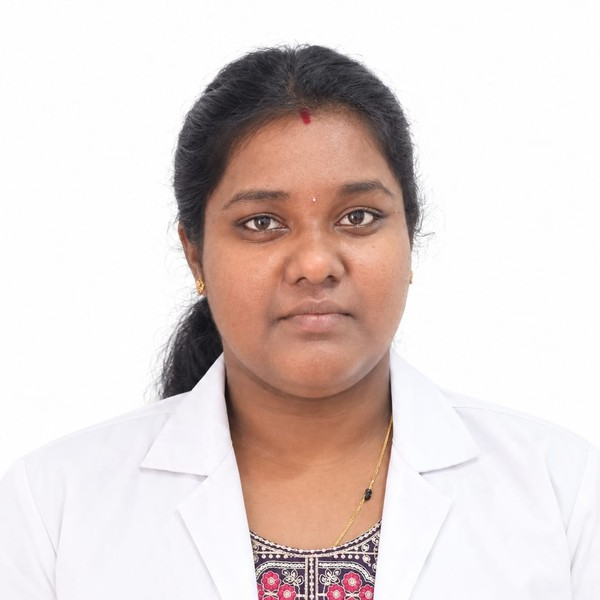
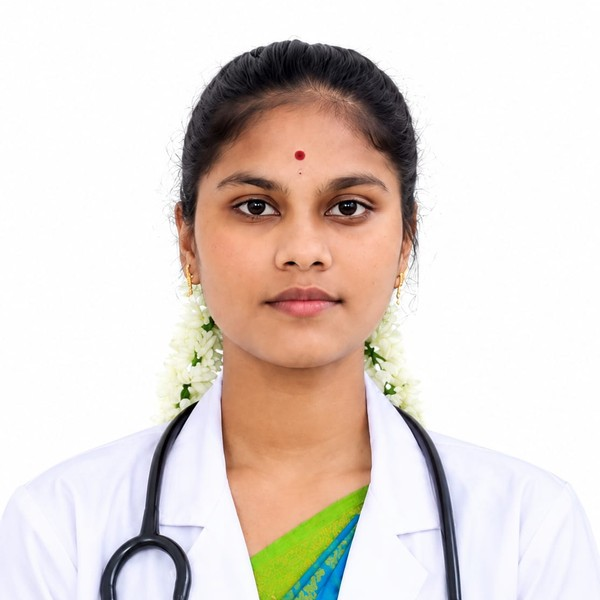
image update

Changed region(s): [[0.15, 0.06, 0.78, 1.0], [0.93, 0.93, 0.96, 0.96], [0.84, 0.99, 0.87, 1.0]]

diff --git a/assets/js/data.js b/assets/js/data.js
@@ -22,8 +22,8 @@ const BRANCHES = [
     phone:"+91 95003 22006",
     map:"https://www.google.com/maps?q=West+Tambaram+Mudichur+Road+Chennai+600045&output=embed",
     programmes:"All Certificate, Diploma, Advanced Diploma, Skill Development, B.Voc.* & M.Voc.* programmes" ,
-    incharge:{ name:"Ms. Charumathi P", designation:"Nursing Tutor", qualification:"B.Sc. (Nursing)",
-               phone:"+91 82202 88985", email:"", photo:"chennai.jpg" }},
+    incharge:{ name:"Ms. Sharumathi", designation:"Chennai Head", qualification:"",
+               phone:"+91 82202 88985", email:"sharumathi@bglrgm.com", photo:"chennai.jpg" }},
 
   { name:"Bengaluru — Registered Office", state:"Karnataka", type:"Registered Office",
     unit:"BGLRGM Institute of Vocational Education & Training",
@@ -32,7 +32,7 @@ const BRANCHES = [
     map:"https://www.google.com/maps?q=Padmanabhanagar+Bengaluru+560070&output=embed",
     programmes:"Administration, partner coordination, examinations and certification" ,
     incharge:{ name:"Mr. Manoj", designation:"Centre Coordinator", qualification:"",
-               phone:"+91 73380 17339", email:"", photo:"bengaluru.jpg" }},
+               phone:"+91 73380 17339", email:"manoj@bglrgm.com", photo:"bengaluru.jpg" }},
 
   { name:"Chengalpattu Branch", state:"Tamil Nadu", type:"Branch / Training Centre",
     unit:"Dr. RG Academy",
@@ -41,7 +41,7 @@ const BRANCHES = [
     map:"https://www.google.com/maps?q=Anna+Nagar+Chengalpattu+603001&output=embed",
     programmes:"Healthcare, paramedical, hospitality, IT and skill development programmes" ,
     incharge:{ name:"Ms. Sowmiya", designation:"Centre Coordinator", qualification:"",
-               phone:"+91 90030 68930", email:"", photo:"chengalpattu.jpg" }},
+               phone:"+91 90030 68930", email:"sowmiya@bglrgm.com", photo:"chengalpattu.jpg" }},
 
   { name:"Cheyyar Branch", state:"Tamil Nadu", type:"Branch / Training Centre",
     unit:"Dr. RG Academy",
@@ -50,7 +50,7 @@ const BRANCHES = [
     map:"https://www.google.com/maps?q=Mandi+Street+Cheyyar+604407&output=embed",
     programmes:"Certificate, diploma and short-term vocational programmes" ,
     incharge:{ name:"Mrs. Thilagavathi", designation:"Centre Coordinator", qualification:"",
-               phone:"+91 95001 46585", email:"", photo:"cheyyar.jpg" }},
+               phone:"+91 95001 46585", email:"thilagavathi@bglrgm.com", photo:"cheyyar.jpg" }},
 
   { name:"Villupuram Branch", state:"Tamil Nadu", type:"Branch / Training Centre",
     unit:"Dr. RG Academy",
@@ -59,7 +59,7 @@ const BRANCHES = [
     map:"https://www.google.com/maps?q=Raja+Rajeshwari+Nagar+Villupuram+605602&output=embed",
     programmes:"Healthcare, hospital administration, retail and computer applications" ,
     incharge:{ name:"Mr. Pushparaj", designation:"Centre Coordinator", qualification:"",
-               phone:"+91 90035 59761", email:"", photo:"villupuram.jpg" }},
+               phone:"+91 90035 59761", email:"pushparaj@bglrgm.com", photo:"villupuram.jpg" }},
 
   { name:"Tindivanam Branch", state:"Tamil Nadu", type:"Branch / Training Centre",
     unit:"Dr. RG Academy",
@@ -68,7 +68,7 @@ const BRANCHES = [
     map:"https://www.google.com/maps?q=Perumal+Kovil+Street+Tindivanam+604001&output=embed",
     programmes:"Certificate, diploma, skill development and Earn While You Learn programmes" ,
     incharge:{ name:"Mrs. Shobana", designation:"Centre Coordinator", qualification:"",
-               phone:"+91 73975 06070", email:"", photo:"tindivanam.jpg" }}
+               phone:"+91 73975 06070", email:"shobana@bglrgm.com", photo:"tindivanam.jpg" }}
 ];
 
 /* ---------- Programme categories ---------- */
@@ -623,4 +623,79 @@ const PARTNERS = [
      scope:"Internship, OJT and Earn While You Learn — Healthcare",
      since:"2026", note:"" }
   */
+];
+
+/* ==========================================================================
+   OUR TEAM  —  pages/our-team.html
+   --------------------------------------------------------------------------
+   One entry per staff member, shown in the order listed here.
+       name           printed as-is, e.g. "Ms. Charumathi P"
+       designation    their role, e.g. "Nursing Tutor"
+       qualification  e.g. "B.Sc. (Nursing)"
+       branch         optional — the centre they are based at, e.g.
+                      "Villupuram Branch". Shown as a small line on the card.
+       email          optional — shown as a clickable link on the card.
+                      House style is firstname@bglrgm.com.
+       photo          a file in assets/img/staff/  (square, 600x600 or larger).
+                      Leave "" and the card shows the neutral placeholder.
+   A slot with an empty name shows a "To be updated" card, so the page keeps
+   its full layout while you fill the details in.
+   TO ADD SOMEONE     copy a block and put it where they should appear.
+   TO REMOVE SOMEONE  delete their block.
+   ========================================================================== */
+
+const STAFF = [
+  /* Leadership and head office — the same people as pages/leadership.html.
+     Keep the two in step if a role changes. */
+  { name:"Prof. (Dr.) Govindh Ramasamy", designation:"Founder cum Foreign Affairs", qualification:"",
+    branch:"Institution", email:"govindh@bglrgm.com", photo:"founder.jpg" },
+  { name:"Mr. Nareen Ramasamy G", designation:"Chief Executive Officer", qualification:"",
+    branch:"Institution", email:"nareen@bglrgm.com", photo:"ceo.jpg" },
+  { name:"Dr. Latha Govindh", designation:"Director", qualification:"",
+    branch:"Institution", email:"latha@bglrgm.com", photo:"director.jpg" },
+  { name:"Mr. Venkatesan", designation:"Chief Administrative Officer", qualification:"",
+    branch:"Chennai Head Office", email:"venkatesan@bglrgm.com", photo:"admin.jpg" },
+  { name:"Mr. Vignesh E", designation:"Admissions Coordinator", qualification:"",
+    branch:"Chennai Head Office", email:"vignesh@bglrgm.com", photo:"admissions.jpg" },
+  { name:"Mr. Rakshith", designation:"Examination Controller", qualification:"",
+    branch:"Chennai Head Office", email:"rakshith@bglrgm.com", photo:"exam.jpg" },
+
+  { name:"Mrs. Bhuvaneswari A", designation:"Assistant Professor", qualification:"",
+    branch:"Villupuram Branch", email:"bhuvaneswari@bglrgm.com", photo:"bhuvaneswari-a.jpg" },
+  { name:"Ms. Sharumathi", designation:"Chennai Head", qualification:"",
+    branch:"Chennai Head Office", email:"sharumathi@bglrgm.com", photo:"chennai.jpg" },
+  { name:"Ms. Karthika S", designation:"Assistant Professor", qualification:"B.Sc. (Nursing)",
+    branch:"Chengalpattu Branch", email:"karthika@bglrgm.com", photo:"karthika-s.jpg" },
+  { name:"Ms. Fathima S", designation:"Assistant Professor", qualification:"B.Sc. (Nursing), MBA, CPC",
+    branch:"Chennai Branch", email:"fathima@bglrgm.com", photo:"fathima-s.jpg" },
+
+  /* Centre coordinators — the same people as the in-charge panels on
+     pages/branches.html. Keep the two in step if a coordinator changes. */
+  { name:"Mr. Manoj", designation:"Centre Coordinator", qualification:"",
+    branch:"Bengaluru — Registered Office", email:"manoj@bglrgm.com", photo:"bengaluru.jpg" },
+  { name:"Ms. Sowmiya", designation:"Centre Coordinator", qualification:"",
+    branch:"Chengalpattu Branch", email:"sowmiya@bglrgm.com", photo:"chengalpattu.jpg" },
+  { name:"Mrs. Thilagavathi", designation:"Centre Coordinator", qualification:"",
+    branch:"Cheyyar Branch", email:"thilagavathi@bglrgm.com", photo:"cheyyar.jpg" },
+  { name:"Mr. Pushparaj", designation:"Centre Coordinator", qualification:"",
+    branch:"Villupuram Branch", email:"pushparaj@bglrgm.com", photo:"villupuram.jpg" },
+  { name:"Mrs. Shobana", designation:"Centre Coordinator", qualification:"",
+    branch:"Tindivanam Branch", email:"shobana@bglrgm.com", photo:"tindivanam.jpg" },
+  { name:"Ms. Shruthi R", designation:"Assistant Professor", qualification:"",
+    branch:"Bengaluru — Registered Office", email:"shruthi@bglrgm.com", photo:"shruthi-r.jpg" },
+  { name:"Ms. Anitha R", designation:"Assistant Professor", qualification:"",
+    branch:"Bengaluru — Registered Office", email:"anitha@bglrgm.com", photo:"anitha-r.jpg" },
+  { name:"Ms. Keerthana R", designation:"Assistant Professor", qualification:"",
+    branch:"Bengaluru — Registered Office", email:"keerthana@bglrgm.com", photo:"keerthana-r.jpg" },
+  { name:"Mrs. S. Savithiri", designation:"Assistant Professor", qualification:"D.T.Ed., B.A., M.Ed. (English)",
+    branch:"Cheyyar Branch", email:"savithiri@bglrgm.com", photo:"savithiri-s.jpg" },
+  { name:"Mrs. S. Kalaiselvi", designation:"Assistant Professor", qualification:"B.Sc., B.Ed. (Mathematics)",
+    branch:"Cheyyar Branch", email:"kalaiselvi@bglrgm.com", photo:"kalaiselvi-s.jpg" },
+  { name:"Ms. Vennila", designation:"Assistant Professor", qualification:"",
+    branch:"Tindivanam Branch", email:"vennila@bglrgm.com", photo:"vennila.jpg" },
+  { name:"Mrs. G. Kavitha", designation:"Assistant Professor", qualification:"B.A., B.Ed.",
+    branch:"Villupuram Branch", email:"kavitha@bglrgm.com", photo:"kavitha-g.jpg" },
+  { name:"Mr. Naveen B", designation:"Education Counsellor", qualification:"BBA",
+    branch:"Villupuram Branch", email:"naveen@bglrgm.com", photo:"naveen-b.jpg" },
+  { name:"", designation:"Assistant Professor", qualification:"", branch:"", email:"", photo:"" }
 ];

diff --git a/pages/our-team.html b/pages/our-team.html
@@ -1,0 +1,77 @@
+<!DOCTYPE html>
+<html lang="en">
+<head>
+<meta charset="utf-8">
+<meta name="viewport" content="width=device-width,initial-scale=1">
+<title>Our Team | Faculty, Trainers &amp; Administration | BGLRGM</title>
+<meta name="description" content="The faculty, trainers, coordinators and administrative staff of BGLRGM Institute of Vocational Education &amp; Training.">
+<link rel="icon" href="../assets/img/favicon.ico" sizes="any">
+<link rel="icon" type="image/png" sizes="32x32" href="../assets/img/favicon-32.png">
+<link rel="apple-touch-icon" href="../assets/img/apple-touch-icon.png">
+<meta name="theme-color" content="#0b3c8c">
+<link rel="stylesheet" href="../assets/css/style.css">
+</head>
+<body>
+
+<div id="site-header"></div>
+
+<section class="pagebanner">
+  <div class="wrap">
+    <div class="crumbs"><a href="../index.html">Home</a><span>&rsaquo;</span>Our Team</div>
+    <h1>Our Team</h1>
+    <p>The faculty, trainers, coordinators and administrative staff behind every programme.</p>
+  </div>
+</section>
+
+<section class="sec"><div class="wrap">
+  <div class="sec-head"><span class="tagline">Faculty &amp; Staff</span>
+    <h2>The People at BGLRGM</h2>
+    <p class="muted">Our programmes are delivered by trainers and coordinators with practical
+       experience in their field, supported by an administrative team across our centres.</p></div>
+
+  <!-- Built from the STAFF list in assets/js/data.js -->
+  <div class="grid g4" id="staff-grid"></div>
+</div></section>
+
+<section class="sec sec-tint"><div class="wrap">
+  <div class="sec-head"><span class="tagline">Join Us</span>
+    <h2 style="font-size:1.6rem">Work With BGLRGM</h2>
+    <p class="muted">We publish degree and postgraduate level vacancies for academic and
+       administrative roles as they open.</p></div>
+  <div class="center">
+    <a class="btn btn-primary" href="current-openings.html">Current Openings</a>
+    <a class="btn btn-outline" href="leadership.html" style="margin-left:.5rem">Leadership &amp; Governance</a>
+    <a class="btn btn-outline" href="branches.html" style="margin-left:.5rem">Our Branches</a>
+  </div>
+</div></section>
+
+<div id="site-footer"></div>
+
+<script src="../assets/js/config.js"></script>
+<script src="../assets/js/data.js"></script>
+<script src="../assets/js/demo-data.js"></script>
+<script src="../assets/js/layout.js"></script>
+<script src="../assets/js/main.js"></script>
+<script>
+document.addEventListener('DOMContentLoaded', function () {
+  var host = document.getElementById('staff-grid');
+  if (!host || typeof STAFF === 'undefined') return;
+
+  host.innerHTML = STAFF.map(function (m) {
+    var named = m.name && m.name.trim();
+    var photo = m.photo ? '../assets/img/staff/' + m.photo
+                        : '../assets/img/staff-placeholder.svg';
+    return '<div class="leader' + (named ? '' : ' leader-empty') + '">' +
+      '<img src="' + photo + '" alt="' + esc(named ? m.name : 'Staff member') + '" loading="lazy" ' +
+        'onerror="this.onerror=null;this.src=\'../assets/img/staff-placeholder.svg\'">' +
+      '<h3>' + esc(named ? m.name : 'To be updated') + '</h3>' +
+      (m.designation ? '<span class="role">' + esc(m.designation) + '</span>' : '') +
+      (m.qualification ? '<p>' + esc(m.qualification) + '</p>' : '') +
+      (m.branch ? '<p class="tiny muted" style="margin:.35rem 0 0">' + esc(m.branch) + '</p>' : '') +
+      (m.email ? '<a class="staff-mail" href="mailto:' + esc(m.email) + '">' + esc(m.email) + '</a>' : '') +
+      '</div>';
+  }).join('');
+});
+</script>
+</body>
+</html>

diff --git a/assets/js/layout.js b/assets/js/layout.js
@@ -143,7 +143,9 @@ const NAV = [
     { l: "Admin Login", h: "pages/login.html?role=admin" }
   ]},
 
-  { label: "Branches", href: "pages/branches.html" },
+  /* The Branches menu builds itself from the BRANCHES list in data.js, then
+     adds Our Team at the bottom. Add a centre there and it appears here too. */
+  { label: "Branches", href: "pages/branches.html", subFrom: "branches" },
   { label: "Events", href: "pages/events.html" },
   { label: "Gallery", href: "pages/gallery.html" },
   { label: "Contact", href: "pages/contact.html" }
@@ -192,6 +194,21 @@ function renderHeader() {
 
   var navHtml = NAV.map(function (item) {
     var subs = '';
+
+    /* Branches: one line per centre, then Our Team */
+    if (item.subFrom === 'branches') {
+      var list = [{ head: 'Our centres' }, { l: 'All Branches & Centres', h: 'pages/branches.html' }];
+      if (typeof BRANCHES !== 'undefined') {
+        BRANCHES.forEach(function (b) {
+          list.push({ l: b.name, h: 'pages/branches.html' });
+        });
+      }
+      list.push({ head: 'People' });
+      list.push({ l: 'Our Team', h: 'pages/our-team.html' });
+      list.push({ l: 'Leadership & Governance', h: 'pages/leadership.html' });
+      item = { label: item.label, href: item.href, sub: list };
+    }
+
     if (item.sub) {
       subs = '<ul class="subnav">' + item.sub.map(function (s) {
         return s.head ? '<li class="sub-head">' + s.head + '</li>'
@@ -331,6 +348,7 @@ function renderFooter() {
         '<a href="' + P('pages/about.html') + '">About BGLRGM</a>' +
         '<a href="' + P('pages/leadership.html') + '">Leadership</a>' +
         '<a href="' + P('pages/branches.html') + '">Our Branches</a>' +
+        '<a href="' + P('pages/our-team.html') + '">Our Team</a>' +
         '<a href="' + P('pages/gallery.html') + '">Gallery</a>' +
         '<a href="' + P('pages/events.html') + '">Events</a>' +
         '<a href="' + P('pages/news.html') + '">News & Events</a>' +

diff --git a/assets/css/style.css b/assets/css/style.css
@@ -888,3 +888,17 @@ a.org:hover .org-ring{box-shadow:var(--shadow-md);transform:translateY(-4px);bor
   html{scroll-padding-top:150px}
   [id]{scroll-margin-top:150px}
 }
+
+/* ==========================================================================
+   OUR TEAM — unfilled staff slots                          (added Sep 2026)
+   A slot with no name yet is dimmed slightly so the page reads as "still
+   being filled in" rather than looking broken. Fill the name in the STAFF
+   list in data.js and the card returns to normal on its own.
+   ========================================================================== */
+.leader-empty{opacity:.62}
+.leader-empty h3{color:var(--ink-500);font-weight:600}
+
+/* staff email link on the Our Team cards */
+.leader .staff-mail{display:block;margin-top:.45rem;font-size:.78rem;font-weight:700;
+  color:var(--blue-700);word-break:break-word}
+.leader .staff-mail:hover{color:var(--gold-600)}
